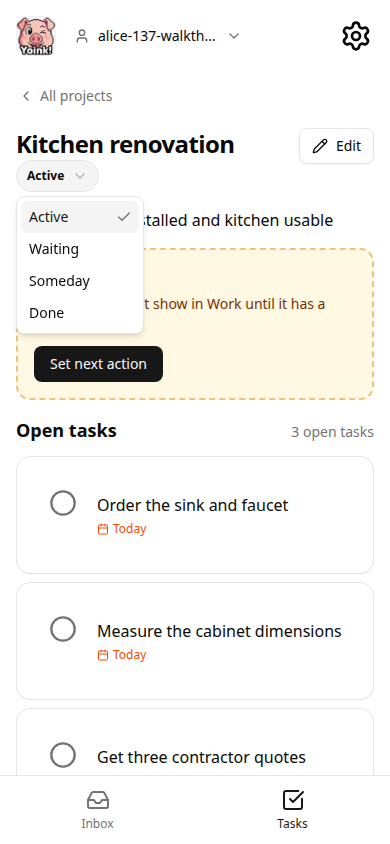
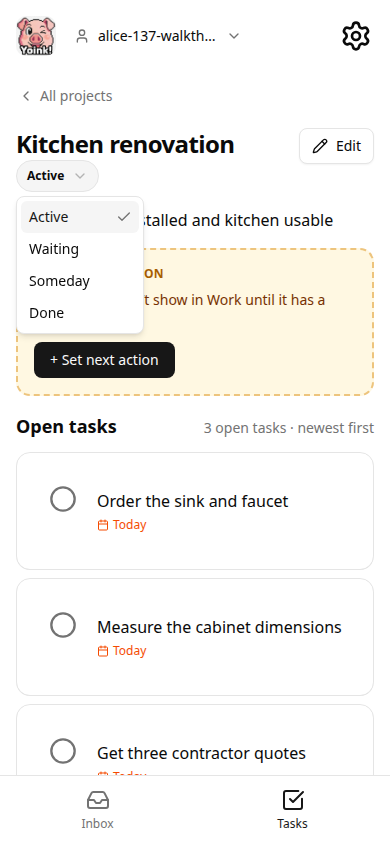
Retake #137 walkthrough shots after the Tycho UI fixes
Flattened next-action row, empty card, All projects amber label, and
rail dot. Waiting form waits for the status menu to close. Walkthrough
shots dismiss toasts so What’s next is not covered.

diff --git a/packages/acceptance-testing/src/drivers/playwright/actor.ts b/packages/acceptance-testing/src/drivers/playwright/actor.ts
@@ -2375,7 +2375,13 @@ export const createPlaywrightActor = (
     },
 
     async saveWalkthroughScreenshot(input: { story: string; step: string }): Promise<void> {
-      await expect(page.locator('[data-sonner-toast]')).toHaveCount(0, { timeout: 8_000 });
+      await page.mouse.move(0, 0);
+      await page.evaluate(`
+        document.querySelectorAll('[data-sonner-toast]').forEach((node) => node.remove());
+      `);
+      if (input.step === 'whats_next') {
+        await expect(page.locator('[data-sonner-toast]')).toHaveCount(0);
+      }
       const openSelect = page.locator('[data-slot="select-content"][data-state="open"]');
       if ((await openSelect.count()) > 0 && (await openSelect.last().isVisible())) {
         await waitForSettledOpenSelect({ page });
